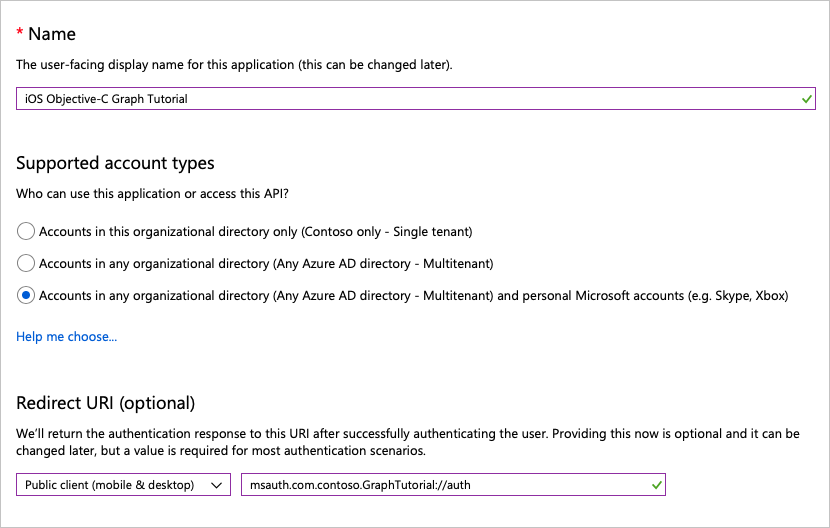
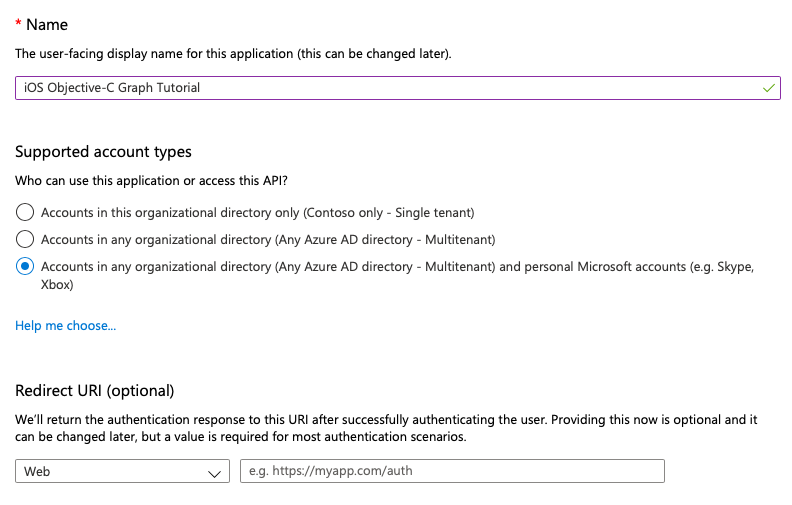
Updated app registration

diff --git a/tutorial/03-register-app.md b/tutorial/03-register-app.md
@@ -12,10 +12,14 @@ In this exercise you will create a new Azure AD native application using the Azu
 
     - Set **Name** to `iOS Objective-C Graph Tutorial`.
     - Set **Supported account types** to **Accounts in any organizational directory and personal Microsoft accounts**.
-    - Under **Redirect URI**, change the dropdown to **Public client (mobile & desktop)**, and set the value to `msauth.YOUR_BUNDLE_ID://auth`, replacing `YOUR_BUNDLE_ID` with the bundle ID for your app.
+    - Leave **Redirect URI** empty.
 
     ![A screenshot of the Register an application page](./images/aad-register-an-app.png)
 
 1. Select **Register**. On the **iOS Objective-C Graph Tutorial** page, copy the value of the **Application (client) ID** and save it, you will need it in the next step.
 
     ![A screenshot of the application ID of the new app registration](./images/aad-application-id.png)
+
+1. Select **Authentication** under **Manage**. Select **Add a platform**, then **iOS / macOS**.
+
+1. Enter your app's Bundle ID and select **Configure**, then select **Done**.
